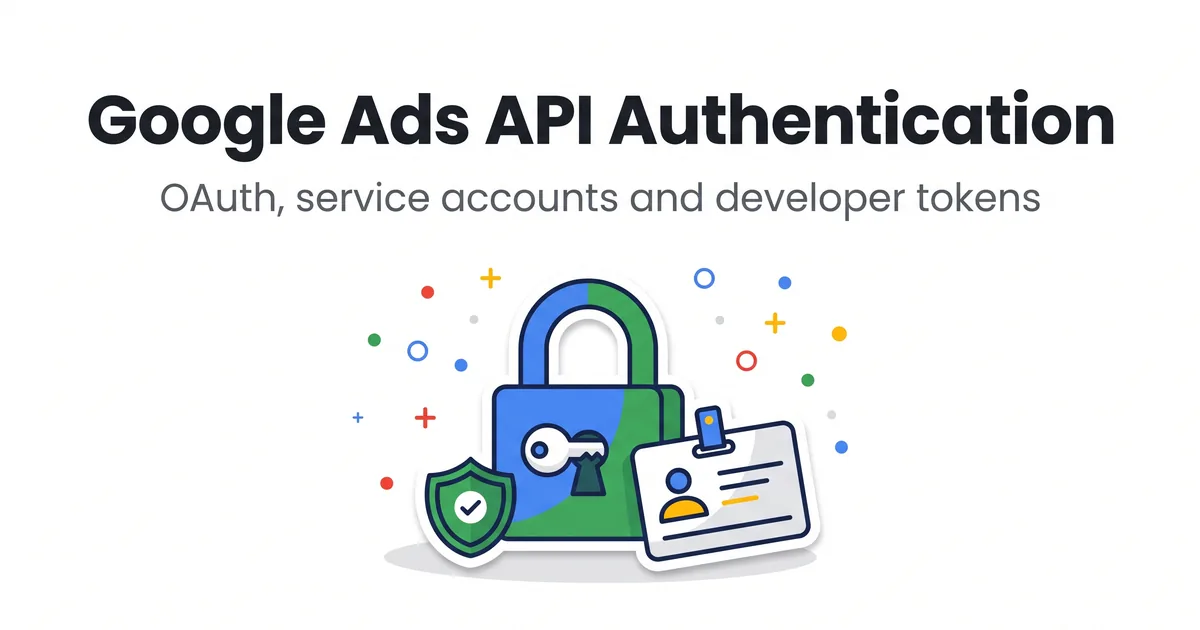
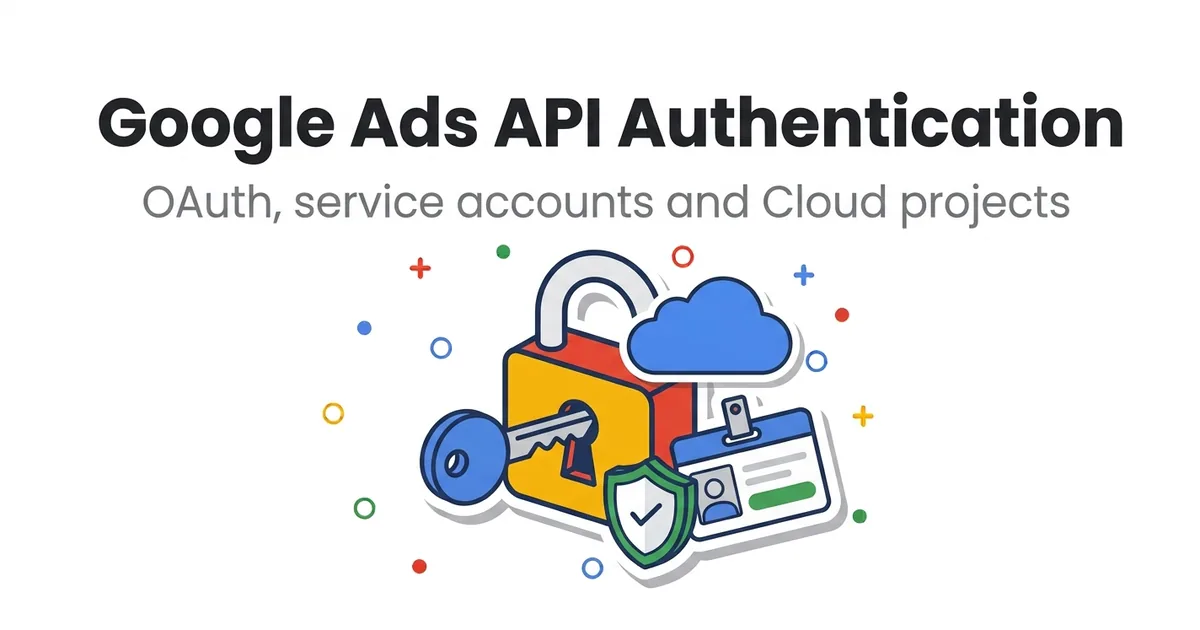
assets(blog): nove hero slike za API autentifikaciju i Basic Access posle ukidanja developer tokena + alt tekstovi

diff --git a/src/app/[locale]/blog/[slug]/posts/index.tsx b/src/app/[locale]/blog/[slug]/posts/index.tsx
@@ -251,7 +251,7 @@ const srPosts: PostData[] = [
     metaDescription:
       "Google Ads API autentifikacija bez lutanja: OAuth2 tok korak po korak, refresh token zamka od 7 dana, service account pravila i tabela čestih grešaka sa rešenjima.",
     featuredImage: "/blog/google-ads-api-autentifikacija.webp",
-    imageAlt: "Ilustracija katanca sa ključem, štitom i identifikacionom karticom, tema autentifikacije za Google Ads API",
+    imageAlt: "Ilustracija katanca sa ključem, oblakom, štitom i identifikacionom karticom, tema autentifikacije za Google Ads API: OAuth, service account i Cloud projekti",
     readingTime: "11 min",
     content: <GoogleAdsApiAutentifikacijaSR />,
     ctaTarget: "tool"
@@ -377,7 +377,7 @@ const srPosts: PostData[] = [
     metaDescription:
       "Kako do Google Ads API Basic Access nivoa posle 9.9.2026, kada je Google ukinuo developer tokene i vezao nivo pristupa za Cloud projekat: brand verification, zahtev kroz Cloud Console, šta Basic stvarno otključava i kada Standard ima smisla. Iz ličnog iskustva.",
     featuredImage: "/blog/google-ads-api-basic-access-vodic.webp",
-    imageAlt: "Ilustracija stepenica koje vode do otvorene kapije sa zastavicom na vrhu, tema vodiča za Google Ads API Basic Access",
+    imageAlt: "Ilustracija starog ključa na poslužavniku i strelice ka oblaku sa zelenim štitom, tema prelaska Google Ads API pristupa sa developer tokena na Cloud projekat",
     readingTime: "12 min",
     content: <GoogleAdsApiBasicAccessVodicSR />,
     ctaTarget: "tool"
@@ -972,7 +972,7 @@ const enPosts: PostData[] = [
     metaDescription:
       "Google Ads API authentication explained: OAuth2 desktop vs. web flow, the 7-day refresh token trap, service account rules, and a table of common errors with fixes.",
     featuredImage: "/blog/google-ads-api-autentifikacija.webp",
-    imageAlt: "Illustration of a padlock with a key, a shield and an ID badge card, Google Ads API authentication topic",
+    imageAlt: "Illustration of a padlock with a key, a cloud, a shield and an ID badge card, Google Ads API authentication with OAuth, service accounts and Cloud projects",
     readingTime: "11 min",
     content: <GoogleAdsApiAuthenticationGuideEN />
   },
@@ -1089,7 +1089,7 @@ const enPosts: PostData[] = [
     metaDescription:
       "How to get Google Ads API Basic Access after September 9, 2026, when Google retired developer tokens and tied access levels to the Cloud project: brand verification, requesting the upgrade in Cloud Console, what Basic actually unlocks, and when Standard is worth asking for. First-hand guide.",
     featuredImage: "/blog/google-ads-api-basic-access-vodic.webp",
-    imageAlt: "Illustration of a staircase leading to an open gate with a flag at the top, Google Ads API Basic Access step-by-step guide topic",
+    imageAlt: "Illustration of an old key on a tray with an arrow pointing to a cloud holding a green shield, Google Ads API access moving from developer tokens to Cloud projects",
     readingTime: "12 min",
     content: <GoogleAdsApiBasicAccessGuideEN />
   },
